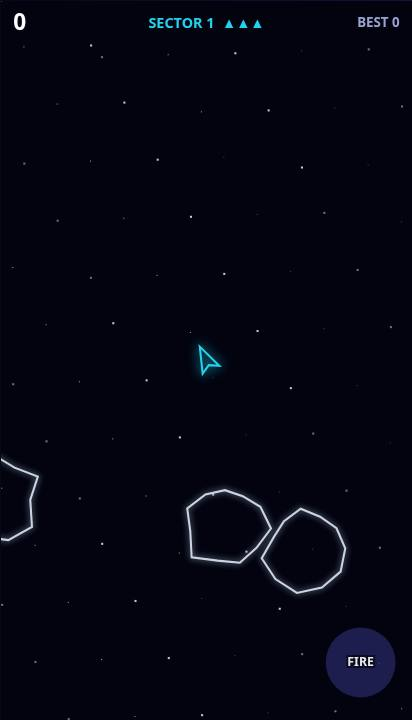
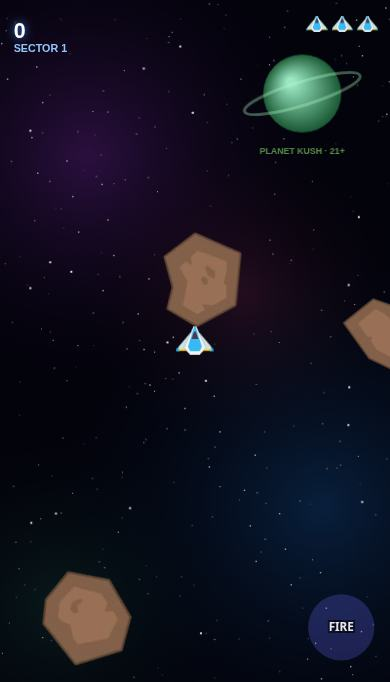
games-lib: Rock Buster art/feel upgrade (Kenney CC0 meteors/ship, nebula, shards); e2e + bug pass PASS

diff --git a/public/games-lib/rock-buster/game.js b/public/games-lib/rock-buster/game.js
@@ -1,4 +1,11 @@
-// Rock Buster - original vector space-rock shooter (Hub build)
+// Rock Buster - original space-rock shooter (Hub build, Asteroids-style). Art: Kenney Space Shooter Remastered (CC0) meteors/ship/UFO/lasers,
+// code-painted nebula with parallax stars, rock shards, shockwaves, thruster flame and shield bubble.
+const RB = {}; ['meteorBrown_big1', 'meteorBrown_big2', 'meteorBrown_big3', 'meteorGrey_big4', 'meteorBrown_med1', 'meteorGrey_med2', 'meteorBrown_small1', 'meteorGrey_small2', 'playerShip3_blue', 'ufoRed', 'laserBlue07', 'laserRed07', 'fire13', 'shield1'].forEach(n => { const im = new Image(); im.src = 'img/' + n + '.webp'; RB[n] = im; });
+const SPR3 = ['meteorBrown_big1', 'meteorBrown_big2', 'meteorBrown_big3', 'meteorGrey_big4'], SPR2 = ['meteorBrown_med1', 'meteorGrey_med2'], SPR1 = ['meteorBrown_small1', 'meteorGrey_small2'];
+let NEB = null; function neb(W, H) { if (NEB) return NEB; const cv = document.createElement('canvas'); cv.width = W; cv.height = H; const c = cv.getContext('2d'); c.fillStyle = '#03030c'; c.fillRect(0, 0, W, H);
+  for (const [x, y, r, col] of [[90, 160, 260, 'rgba(120,40,160,.35)'], [330, 520, 300, 'rgba(20,90,160,.33)'], [250, 300, 180, 'rgba(200,60,120,.16)'], [60, 620, 200, 'rgba(40,160,120,.14)']]) { const g = c.createRadialGradient(x, y, 0, x, y, r); g.addColorStop(0, col); g.addColorStop(1, 'rgba(0,0,0,0)'); c.fillStyle = g; c.fillRect(0, 0, W, H); }
+  for (let i = 0; i < 260; i++) { const x = Math.random() * W, y = Math.random() * H, b = Math.random(); c.fillStyle = `rgba(255,255,255,${0.2 + b * 0.7})`; c.fillRect(x, y, b > 0.92 ? 2 : 1, b > 0.92 ? 2 : 1); }
+  c.save(); c.translate(W - 90, 96); const pg = c.createRadialGradient(-12, -12, 4, 0, 0, 42); pg.addColorStop(0, '#9be7c4'); pg.addColorStop(1, '#14532d'); c.fillStyle = pg; c.beginPath(); c.arc(0, 0, 40, 0, 7); c.fill(); c.strokeStyle = 'rgba(180,255,200,.35)'; c.lineWidth = 3; c.beginPath(); c.ellipse(0, 0, 62, 12, -0.3, 0, 7); c.stroke(); c.fillStyle = 'rgba(157,255,122,.55)'; c.font = 'bold 9px sans-serif'; c.textAlign = 'center'; c.fillText('PLANET KUSH \u00b7 21+', 0, 62); c.restore(); return (NEB = cv); }
 Kit.run({ id: 'gl-rock-buster', title: 'ROCK BUSTER', help: 'Desktop: arrows rotate/thrust, Space fire\nTouch: stick to steer + thrust, FIRE button', bg: '#02030f', stick: true,
   buttons: [{ id: 'F', key: 'f', label: 'FIRE' }],
   init(g) { g.s = { x: 200, y: 350, a: -Math.PI / 2, vx: 0, vy: 0, inv: 2 }; g.rocks = []; g.sh = []; g.lv = 0; g.lives = 3; g.cd = 0; g.ufo = null; g.ub = []; next(g); },
@@ -7,28 +14,36 @@ Kit.run({ id: 'gl-rock-buster', title: 'ROCK BUSTER', help: 'Desktop: arrows rot
     if (g.stick.on && Math.hypot(g.stick.x, g.stick.y) > 0.3) { const ta = Math.atan2(g.stick.y, g.stick.x); let d = ta - s.a; d = Math.atan2(Math.sin(d), Math.cos(d)); s.a += Kit.clamp(d, -7 * dt, 7 * dt); thr = Math.hypot(g.stick.x, g.stick.y) > 0.6; }
     else { s.a += ((g.keys.ArrowRight || g.keys.d ? 1 : 0) - (g.keys.ArrowLeft || g.keys.a ? 1 : 0)) * 4.5 * dt; thr = g.keys.ArrowUp || g.keys.w; }
     if (thr) { s.vx += Math.cos(s.a) * 300 * dt; s.vy += Math.sin(s.a) * 300 * dt; if (g.frames % 2) g.parts.push({ x: s.x - Math.cos(s.a) * 12, y: s.y - Math.sin(s.a) * 12, vx: -Math.cos(s.a) * 120 + g.R(-30, 30), vy: -Math.sin(s.a) * 120 + g.R(-30, 30), l: 0.35, m: 0, c: '#f97316', s: 3, gr: 0 }); }
-    s.vx *= Math.pow(0.6, dt); s.vy *= Math.pow(0.6, dt); s.x = (s.x + s.vx * dt + g.W) % g.W; s.y = (s.y + s.vy * dt + g.H) % g.H; s.inv -= dt;
+    g.thr = thr; s.vx *= Math.pow(0.6, dt); s.vy *= Math.pow(0.6, dt); s.x = (s.x + s.vx * dt + g.W) % g.W; s.y = (s.y + s.vy * dt + g.H) % g.H; s.inv -= dt;
     g.cd -= dt; if ((g.keys[' '] || g.btn.F || g.keys.f) && g.cd <= 0) { g.cd = 0.18; g.sh.push({ x: s.x + Math.cos(s.a) * 14, y: s.y + Math.sin(s.a) * 14, vx: Math.cos(s.a) * 480 + s.vx, vy: Math.sin(s.a) * 480 + s.vy, l: 0.9 }); g.sfx('shoot'); }
     for (const b of g.sh) { b.x = (b.x + b.vx * dt + g.W) % g.W; b.y = (b.y + b.vy * dt + g.H) % g.H; b.l -= dt; }
     for (const r of g.rocks) { r.x += r.vx * dt; r.y += r.vy * dt; if (r.x < -30) r.x += g.W + 60; if (r.x > g.W + 30) r.x -= g.W + 60; if (r.y < -30) r.y += g.H + 60; if (r.y > g.H + 30) r.y -= g.H + 60; r.a += r.va * dt;
-      for (const b of g.sh) if (b.l > 0 && Math.hypot(b.x - r.x, b.y - r.y) < r.r) { b.l = 0; r.dead = true; }
+      for (const b of g.sh) if (b.l > 0 && Math.hypot(b.x - r.x, b.y - r.y) < r.r) { b.l = 0; r.dead = true; r.flash = 0.2; }
       if (s.inv <= 0 && Math.hypot(s.x - r.x, s.y - r.y) < r.r + 8) { hitShip(g); if (g.state !== 'play') return; } }
-    const born = []; for (const r of g.rocks) if (r.dead) { const v = r.sz === 3 ? 20 : r.sz === 2 ? 50 : 100; g.add(v, 'r'); g.float(r.x, r.y, v, '#e2e8f0', 13); g.burst(r.x, r.y, ['#cbd5e1', '#94a3b8', '#fbbf24'], 8 + r.sz * 5, 150); g.sfx(r.sz === 3 ? 'boom' : 'hit'); g.shake(r.sz * 2); if (r.sz > 1) for (let i = 0; i < 2; i++) born.push(rock(g, r.x, r.y, r.sz - 1)); }
+    const born = []; for (const r of g.rocks) if (r.dead) { const v = r.sz === 3 ? 20 : r.sz === 2 ? 50 : 100; g.add(v, 'r'); g.float(r.x, r.y, v, '#e2e8f0', 13); g.burst(r.x, r.y, ['#d6b38a', '#8a6a4a', '#ffd08a'], 8 + r.sz * 5, 170); g.shards = g.shards || []; for (let i = 0; i < 4 + r.sz * 3; i++) { const a = g.R(0, 6.28), sp = g.R(40, 180); g.shards.push({ x: r.x, y: r.y, vx: Math.cos(a) * sp + r.vx, vy: Math.sin(a) * sp + r.vy, a, va: g.R(-8, 8), r: g.R(2, 3 + r.sz * 2), l: g.R(0.5, 1.1), c: g.pick(['#8a6a4a', '#6b5440', '#a88a6a']) }); } (g.waves = g.waves || []).push({ x: r.x, y: r.y, r: r.r + 14, l: 0.35 }); g.sfx(r.sz === 3 ? 'boom' : 'hit'); g.shake(r.sz * 2); if (r.sz > 1) for (let i = 0; i < 2; i++) born.push(rock(g, r.x, r.y, r.sz - 1)); }
     g.rocks = g.rocks.filter(r => !r.dead).concat(born); g.sh = g.sh.filter(b => b.l > 0);
     if (!g.ufo && g.lv > 1 && g.rnd() < dt * 0.06) g.ufo = { x: -20, y: g.R(80, g.H - 80), cd: 1.5, hp: 1 };
     if (g.ufo) { const u = g.ufo; u.x += 90 * dt; u.y += Math.sin(g.t * 2) * 50 * dt; u.cd -= dt; if (u.cd <= 0) { u.cd = 1.4; const a = Math.atan2(s.y - u.y, s.x - u.x) + g.R(-0.3, 0.3); g.ub.push({ x: u.x, y: u.y, vx: Math.cos(a) * 200, vy: Math.sin(a) * 200, l: 2.5 }); g.sfx('shoot'); }
       for (const b of g.sh) if (b.l > 0 && Math.hypot(b.x - u.x, b.y - u.y) < 18) { b.l = 0; g.add(300, 'u'); g.float(u.x, u.y, 300, '#f472b6', 20); g.burst(u.x, u.y, '#f472b6', 30, 220); g.sfx('boom'); g.ufo = null; break; } if (g.ufo && u.x > g.W + 30) g.ufo = null; }
     for (const b of g.ub) { b.x += b.vx * dt; b.y += b.vy * dt; b.l -= dt; if (s.inv <= 0 && Math.hypot(b.x - s.x, b.y - s.y) < 10) { b.l = 0; hitShip(g); if (g.state !== 'play') return; } } g.ub = g.ub.filter(b => b.l > 0);
     if (!g.rocks.length) { g.add(200 * g.lv, 'c'); g.sfx('line'); next(g); }
-    g.hud = 'SECTOR ' + g.lv + '  ' + '\u25B2'.repeat(g.lives);
+    g.hud = '';
   },
-  draw(g, c) {
-    Kit.stars(c, g.W, g.H, 0, 0, 80); c.lineWidth = 2;
-    for (const r of g.rocks) { c.save(); c.translate(r.x, r.y); c.rotate(r.a); c.strokeStyle = '#cbd5e1'; Kit.glow(c, '#94a3b8', 6); c.beginPath(); r.pts.forEach((p, i) => { const a = i / r.pts.length * Math.PI * 2; c[i ? 'lineTo' : 'moveTo'](Math.cos(a) * r.r * p, Math.sin(a) * r.r * p); }); c.closePath(); c.stroke(); c.restore(); }
-    Kit.noGlow(c); c.fillStyle = '#fde68a'; for (const b of g.sh) c.fillRect(b.x - 2, b.y - 2, 4, 4); c.fillStyle = '#f472b6'; for (const b of g.ub) c.fillRect(b.x - 2, b.y - 2, 5, 5);
-    if (g.ufo) { const u = g.ufo; c.strokeStyle = '#f472b6'; Kit.glow(c, '#f472b6', 10); c.beginPath(); c.ellipse(u.x, u.y, 18, 7, 0, 0, 7); c.moveTo(u.x - 8, u.y - 5); c.lineTo(u.x - 4, u.y - 12); c.lineTo(u.x + 4, u.y - 12); c.lineTo(u.x + 8, u.y - 5); c.stroke(); Kit.noGlow(c); }
-    const s = g.s; if (!(s.inv > 0 && Math.sin(g.t * 25) > 0)) { c.save(); c.translate(s.x, s.y); c.rotate(s.a); c.strokeStyle = '#22d3ee'; Kit.glow(c, '#22d3ee', 12); c.beginPath(); c.moveTo(15, 0); c.lineTo(-10, -9); c.lineTo(-5, 0); c.lineTo(-10, 9); c.closePath(); c.stroke(); Kit.noGlow(c); c.restore(); }
-  } });
-function rock(g, x, y, sz) { const a = g.R(0, 6.28), sp = g.R(30, 70) * (4 - sz) * 0.7 + g.lv * 4; return { x, y, sz, r: sz * 13 + 4, vx: Math.cos(a) * sp, vy: Math.sin(a) * sp, a: 0, va: g.R(-1, 1), pts: Array.from({ length: 11 }, () => g.R(0.72, 1.1)) }; }
+  draw(g, c) { c.drawImage(neb(g.W, g.H), 0, 0); const s = g.s;
+    c.fillStyle = 'rgba(255,255,255,.55)'; for (let i = 0; i < 40; i++) { const x = ((i * 97 - s.x * 0.15 * (1 + i % 3)) % g.W + g.W) % g.W, y = ((i * 173 - s.y * 0.15 * (1 + i % 3)) % g.H + g.H) % g.H; c.fillRect(x, y, 1.5, 1.5); }
+    for (const sh of g.shards || []) { c.save(); c.translate(sh.x, sh.y); c.rotate(sh.a); c.globalAlpha = Math.min(1, sh.l * 2); c.fillStyle = sh.c; c.beginPath(); c.moveTo(sh.r, 0); c.lineTo(-sh.r * 0.6, sh.r * 0.7); c.lineTo(-sh.r * 0.4, -sh.r * 0.8); c.fill(); c.restore(); } c.globalAlpha = 1;
+    for (const w of g.waves || []) { c.strokeStyle = 'rgba(255,200,140,' + w.l * 1.6 + ')'; c.lineWidth = 3; c.beginPath(); c.arc(w.x, w.y, w.r * (1.6 - w.l * 2), 0, 7); c.stroke(); }
+    for (const r of g.rocks) { const im = RB[r.spr]; c.save(); c.translate(r.x, r.y); c.rotate(r.a); if (im && im.complete && im.naturalWidth) { const k = (r.r * 2.25) / Math.max(im.naturalWidth, im.naturalHeight); c.drawImage(im, -im.naturalWidth * k / 2, -im.naturalHeight * k / 2, im.naturalWidth * k, im.naturalHeight * k); } if (r.flash > 0) { c.globalCompositeOperation = 'lighter'; c.fillStyle = 'rgba(255,220,180,' + r.flash * 4 + ')'; c.beginPath(); c.arc(0, 0, r.r, 0, 7); c.fill(); } c.restore(); }
+    c.globalCompositeOperation = 'lighter'; for (const b of g.sh) { const a = Math.atan2(b.vy, b.vx), im = RB.laserBlue07; c.save(); c.translate(b.x, b.y); c.rotate(a + Math.PI / 2); if (im.complete) c.drawImage(im, -4.5, -14, 9, 28); c.restore(); }
+    for (const b of g.ub) { c.save(); c.translate(b.x, b.y); c.rotate(Math.atan2(b.vy, b.vx) + Math.PI / 2); if (RB.laserRed07.complete) c.drawImage(RB.laserRed07, -4.5, -14, 9, 28); c.restore(); } c.globalCompositeOperation = 'source-over';
+    if (g.ufo) { const u = g.ufo, im = RB.ufoRed; c.save(); c.translate(u.x, u.y); c.rotate(g.t * 3); if (im.complete) c.drawImage(im, -22, -22, 44, 44); c.restore(); }
+    if (!(s.inv > 0 && Math.sin(g.t * 25) > 0.6)) { c.save(); c.translate(s.x, s.y); c.rotate(s.a + Math.PI / 2); if (g.thr) { const fl = RB.fire13; c.globalCompositeOperation = 'lighter'; const L = 22 + Math.random() * 10; if (fl.complete) c.drawImage(fl, -6, 14, 12, L); c.globalCompositeOperation = 'source-over'; } const im = RB.playerShip3_blue; if (im.complete) c.drawImage(im, -19, -15, 38, 29);
+      if (s.inv > 0) { c.globalAlpha = Math.min(0.7, s.inv * 0.4); if (RB.shield1.complete) c.drawImage(RB.shield1, -28, -26, 56, 54); c.globalAlpha = 1; } c.restore(); }
+    if (g.shards) { const dt = 1 / 60; for (const sh of g.shards) { sh.x += sh.vx * dt; sh.y += sh.vy * dt; sh.a += sh.va * dt; sh.l -= dt; } g.shards = g.shards.filter(sh => sh.l > 0); }
+    if (g.waves) { for (const w of g.waves) w.l -= 1 / 60; g.waves = g.waves.filter(w => w.l > 0); } for (const r of g.rocks) if (r.flash > 0) r.flash -= 1 / 60;
+  },
+  hudDraw(g, c) { c.textAlign = 'left'; c.font = 'bold 22px sans-serif'; c.fillStyle = '#fff'; c.shadowColor = '#3b82f6'; c.shadowBlur = 8; c.fillText(Math.floor(g.score).toLocaleString('en-US'), 14, 32); c.shadowBlur = 0; c.font = 'bold 11px sans-serif'; c.fillStyle = '#93c5fd'; c.fillText('SECTOR ' + g.lv, 14, 50);
+    const im = RB.playerShip3_blue; for (let i = 0; i < g.lives; i++) if (im.complete) c.drawImage(im, g.W - 34 - i * 26, 16, 22, 17); } });
+function rock(g, x, y, sz) { const a = g.R(0, 6.28), sp = g.R(30, 70) * (4 - sz) * 0.7 + g.lv * 4; return { spr: g.pick(sz === 3 ? SPR3 : sz === 2 ? SPR2 : SPR1), x, y, sz, r: sz * 13 + 4, vx: Math.cos(a) * sp, vy: Math.sin(a) * sp, a: 0, va: g.R(-1, 1), pts: Array.from({ length: 11 }, () => g.R(0.72, 1.1)) }; }
 function next(g) { g.lv++; g.mark('w', g.lv); for (let i = 0; i < 2 + g.lv; i++) { let x, y; do { x = g.R(0, g.W); y = g.R(0, g.H); } while (Math.hypot(x - g.s.x, y - g.s.y) < 150); g.rocks.push(rock(g, x, y, 3)); } g.s.inv = 1.5; }
 function hitShip(g) { const s = g.s; g.lives--; g.burst(s.x, s.y, ['#22d3ee', '#fff'], 40, 260); g.sfx('boom'); g.shake(12); g.flash('#ef4444'); if (g.lives <= 0) return g.end('Ship lost'); s.x = 200; s.y = 350; s.vx = s.vy = 0; s.inv = 2.5; }

diff --git a/docs/GAMES-LIB.md b/docs/GAMES-LIB.md
@@ -527,3 +527,9 @@ For each reference we searched GitHub (topics html5-game / javascript-game / pha
 - Gameplay: fixed-tick grid sim with interpolated bikes. Rival AI flood-fills for open space and cuts in front of the player (per-bike aggression). Swipe, tap left/right to turn, or arrow keys. Endless rounds: clear the arena, the next round adds a rival (up to 5) and speeds up. Score: 100 x round per rival derezzed, 500 x round per round cleared, near-miss grind bonus, survival.
 - Art: dark blueprint grid with major lines, glowing arena border, 3-layer additive neon trails, glossy bikes with coloured light strips, derez bursts and rings, grind sparks, countdown, "GRID LOUNGE 21+" floor art.
 - Tests: e2e PASS (60 fps). Bug pass PASS (47 fps throttled). A flood-fill bot reached round 3 (2,509 points in 51 s). Rating: visual 7/10, feel 7.5/10.
+
+## Rock Buster (Asteroids) - UPGRADED (2026-10-10 06:39 ET)
+- Source hunt (GitHub "asteroids html5" MIT ports, Gitee "小行星 H5", js13k, itch.io): the open-source ports are line-vector remakes at the level we already had. Our rules (split rocks, UFO, sectors, wrap) are complete. Decision: art and feel pass with CC0 art.
+- Art: Kenney Space Shooter Remastered (CC0) meteors (4 big, 2 medium, 2 small variants), ship, red UFO, laser bolts, thruster flame and shield bubble; a code-painted nebula with a "PLANET KUSH 21+" ringed planet, parallax star layer.
+- Feel: rock hit flash, spinning rock shards, a shockwave ring per break, a flickering thruster flame, a shield bubble during invulnerability, ship-icon lives and a glowing score HUD.
+- Tests: e2e PASS (60 fps). Bug pass PASS (50 fps throttled). Folder size 104 KB. Rating: visual 7.5/10, feel 7/10.

diff --git a/HANDOFF-AGENT.md b/HANDOFF-AGENT.md
@@ -49,6 +49,7 @@ Phases 1-9 DONE (incl. 8b i18n: 21 languages, body text of player pages, RTL; fi
 - Light Cycle (Tron) DONE (06:36)
 - Knife Toss (Knife Hit) UPGRADED (06:08)
 - Bubble Pop UPGRADED (Bubble Shooter art pass).
+- Rock Buster (Asteroids) UPGRADED (06:39); Kenney CC0 art
 - Next (Reese order): A-tier list one at a time (Bejeweled, Knife Hit, Stack, Pinball, Tron, Asteroids, Galaga, Missile Command, Tapper, Frogger) + remaining Cannabis; international search folded into each hunt. Then: the international source search, batches 4-8 toward 150+ (catalog `docs/REESE-MASTER-CATALOG.md`); then the bug pass and same-tier audit across all older games.
 
 ## Firm boundaries (Reese accepted)

diff --git a/public/games-lib/rock-buster/CREDITS.md b/public/games-lib/rock-buster/CREDITS.md
@@ -1,3 +1,3 @@
-# Rock Buster
-
-Original game built for The Gaming Hub (Trap Tech Solutions). Code: MIT (see ../LICENSE-HUB.md). Art: vector shapes drawn in code. Sound: synthesized at runtime with WebAudio. No third-party assets.
+# Rock Buster - credits
+- Original Hub code (MIT), code-painted nebula and effects.
+- Meteors, ship, UFO, lasers, thruster flame, shield: Kenney "Space Shooter Remastered" (CC0 1.0), https://kenney.nl - see LICENSE-Kenney-CC0.txt.
